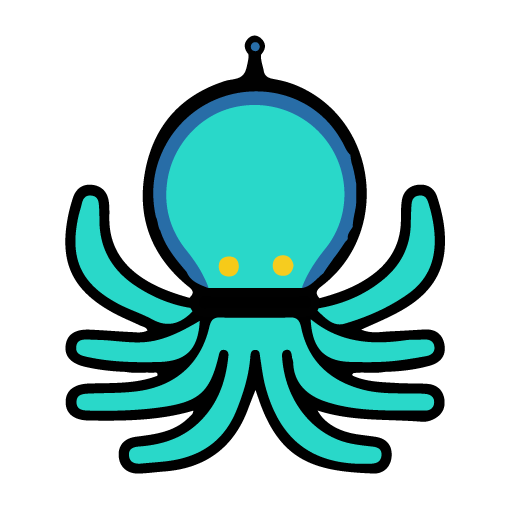
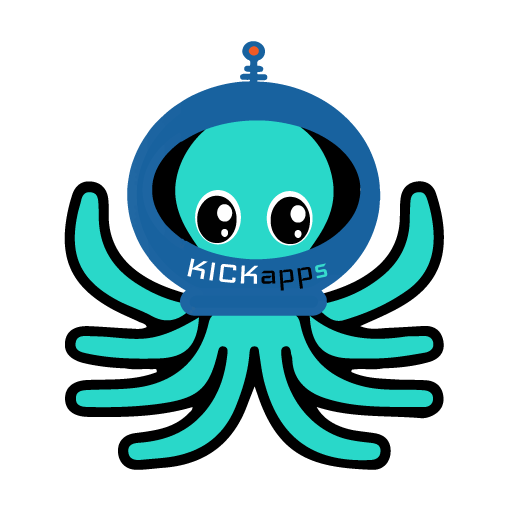
new octopus, team likes

Changed region(s): [[0.125, 0.0625, 0.875, 0.9375], [0.5625, 0.7188, 0.625, 0.8125], [0.5312, 0.6562, 0.5625, 0.6875]]

diff --git a/src/pages/about.js b/src/pages/about.js
@@ -2,7 +2,7 @@ import React, { Component } from 'react';
 import '../App.css';
 
 import aboutpic from "../../src/img/coding.jpg";
-import logoApic from "../../src/img/octopimpLOGO.png";
+import logoApic from "../../src/img/octopimplogo.png";
 // import divider from "../../src/img/dividervert.png";
 
 class About extends Component {
